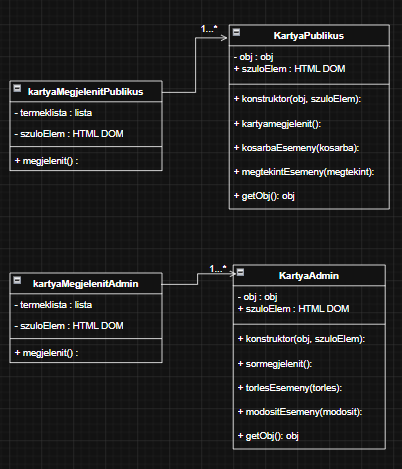
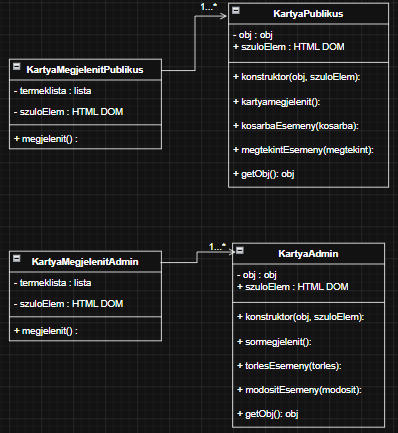
Kartya és KartyaAdmin class elkezdve, +termekLista

Changed region(s): [[0.0, 0.0, 0.995, 0.4503], [0.4824, 0.5404, 0.995, 0.9908], [0.0, 0.5704, 0.4221, 0.8106]]

diff --git a/termekLista.js b/termekLista.js
@@ -1,0 +1,66 @@
+export const TERMEKLISTA = [
+    {
+        index: 0,
+        nev: "Láthatatlan esernyő",
+        leiras: "Soha többé nem ázol meg! (Vagy legalábbis nem látod, hogy megáztál.)",
+        kep: "kepek/lathatlan_esernyo.png",
+        ar: 9990,
+        ertekeles: "4.2/5"
+    },
+    {
+        index: 1,
+        nev: "Önműködő kifogásgenerátor",
+        leiras: "Elkéstél? Nem csináltad meg? Ez az eszköz 1000+ kreatív kifogást generál azonnal.",
+        kep: "kepek/onmokodo_kifogasgenerator.png",
+        ar: 14490,
+        ertekeles: "5/5"
+    },
+    {
+        index: 2,
+        nev: "Okos bögre „Még egy kávé” érzékelővel",
+        leiras: "Automatikusan újratölt, ha fáradtnak tűnsz. (Spoiler: mindig újratölt.)",
+        kep: "kepek/lathatlan_esernyo.png",
+        ar: 12990,
+        ertekeles: "4.8/5"
+    },
+    {
+        index: 3,
+        nev: "Időutazó ébresztőóra",
+        leiras: "Visszatekeri az időt… legalábbis megpróbálja. Többnyire csak késleltet.",
+        kep: "kepek/lathatlan_esernyo.png",
+        ar: 8750,
+        ertekeles: "3.6/5"
+    },
+    {
+        index: 4,
+        nev: "Anti-social póló",
+        leiras: "Felirat: „Nem vagyok bunkó, csak töltök.” Tökéletes introvertáltaknak.",
+        kep: "kepek/lathatlan_esernyo.png",
+        ar: 6490,
+        ertekeles: "5/5"
+    },
+    {
+        index: 5,
+        nev: "Univerzális távirányító… mindenhez (állítólag)",
+        leiras: "TV, klíma, szomszéd idegei - mindent irányít (vagy semmit).",
+        kep: "kepek/lathatlan_esernyo.png",
+        ar: 11290,
+        ertekeles: "5/5"
+    },
+    {
+        index: 6,
+        nev: "Diétás süti (láthatatlan kalóriákkal)",
+        leiras: "Nyugodtan megeheted az egészet… mert úgysem létezik.",
+        kep: "kepek/lathatlan_esernyo.png",
+        ar: 3490,
+        ertekeles: "4.5/5"
+    },
+    {
+        index: 7,
+        nev: "Motivációs matrica `Majd holnap`",
+        leiras: "Ragasszd ki bárhová, és halogass stílusosan.",
+        kep: "kepek/lathatlan_esernyo.png",
+        ar: 1990,
+        ertekeles: "5/5"
+    }
+]

diff --git a/Kartya.js b/Kartya.js
@@ -1,0 +1,32 @@
+export default class Kartya {
+    #obj = {};
+    constructor(obj = {index, nev, leiras, kep, ar, ertekeles}, szuloElem) {
+        this.#obj = obj;
+        this.szuloElem = szuloElem;
+        this.kartyamegjelenit();
+    }
+
+    kartyamegjelenit(){
+        let kod = `
+        <div class="kep">
+          <img src="${this.#obj.kep}" alt="">
+          <h1>${this.#obj.nev}</h1>
+          <p>${this.#obj.leiras}</p>
+          <p>${this.#obj.ar}</p>
+          <p>${this.#obj.ertekeles}</p>
+        </div>`;
+    this.szuloElem.insertAdjacentHTML("beforeend", kod);
+    }
+
+    megtekintEsemeny(){
+        console.log("megtekint esemény");
+        const m = new CustomEvent("megtekint", {detail:this.#obj.index});
+        window.dispatchEvent(m);
+    }
+
+    kosarbaEsemeny(){
+        console.log("kosárba esemény");
+        const k = new CustomEvent("kosárba", {detail:this.#obj.index});
+        window.dispatchEvent(k);
+    }
+}

diff --git a/index.html b/index.html
@@ -5,6 +5,7 @@
     <meta name="viewport" content="width=device-width, initial-scale=1.0">
     <title>Bernáth Milán, Gubek Vera</title>
     <script type="module" src="index.js"></script>
+    <link rel="stylesheet" href="stilus.css">
 </head>
 <body>
     

diff --git a/KartyaAdmin.js b/KartyaAdmin.js
@@ -1,3 +1,7 @@
 export default class KartyaAdmin {
-    
+    #obj = {}
+    constructor(obj = {nev, leiras, kep, ar, ertekeles}, szuloElem){
+        this.#obj = obj,
+        this.szuloElem = szuloElem
+    }
 }
